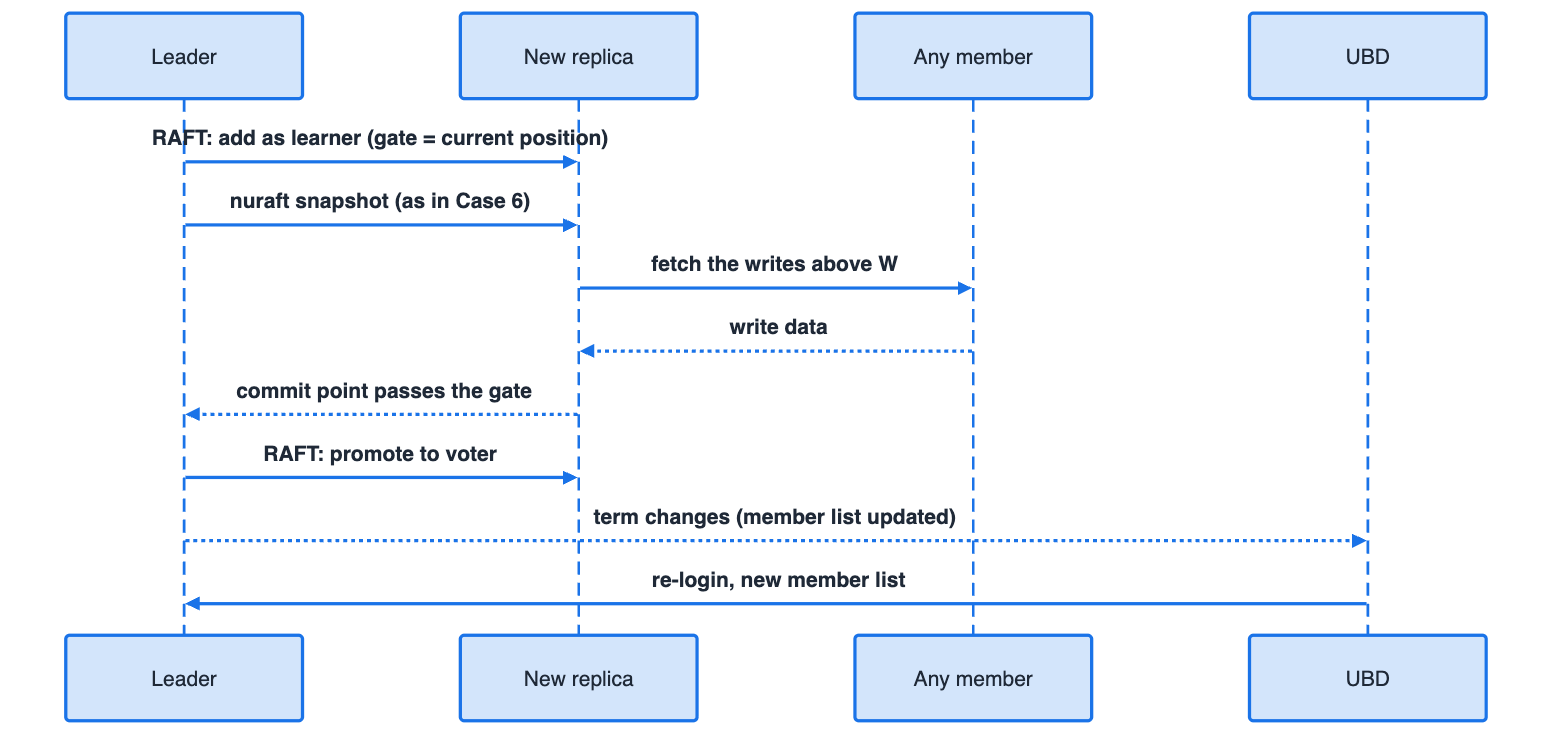
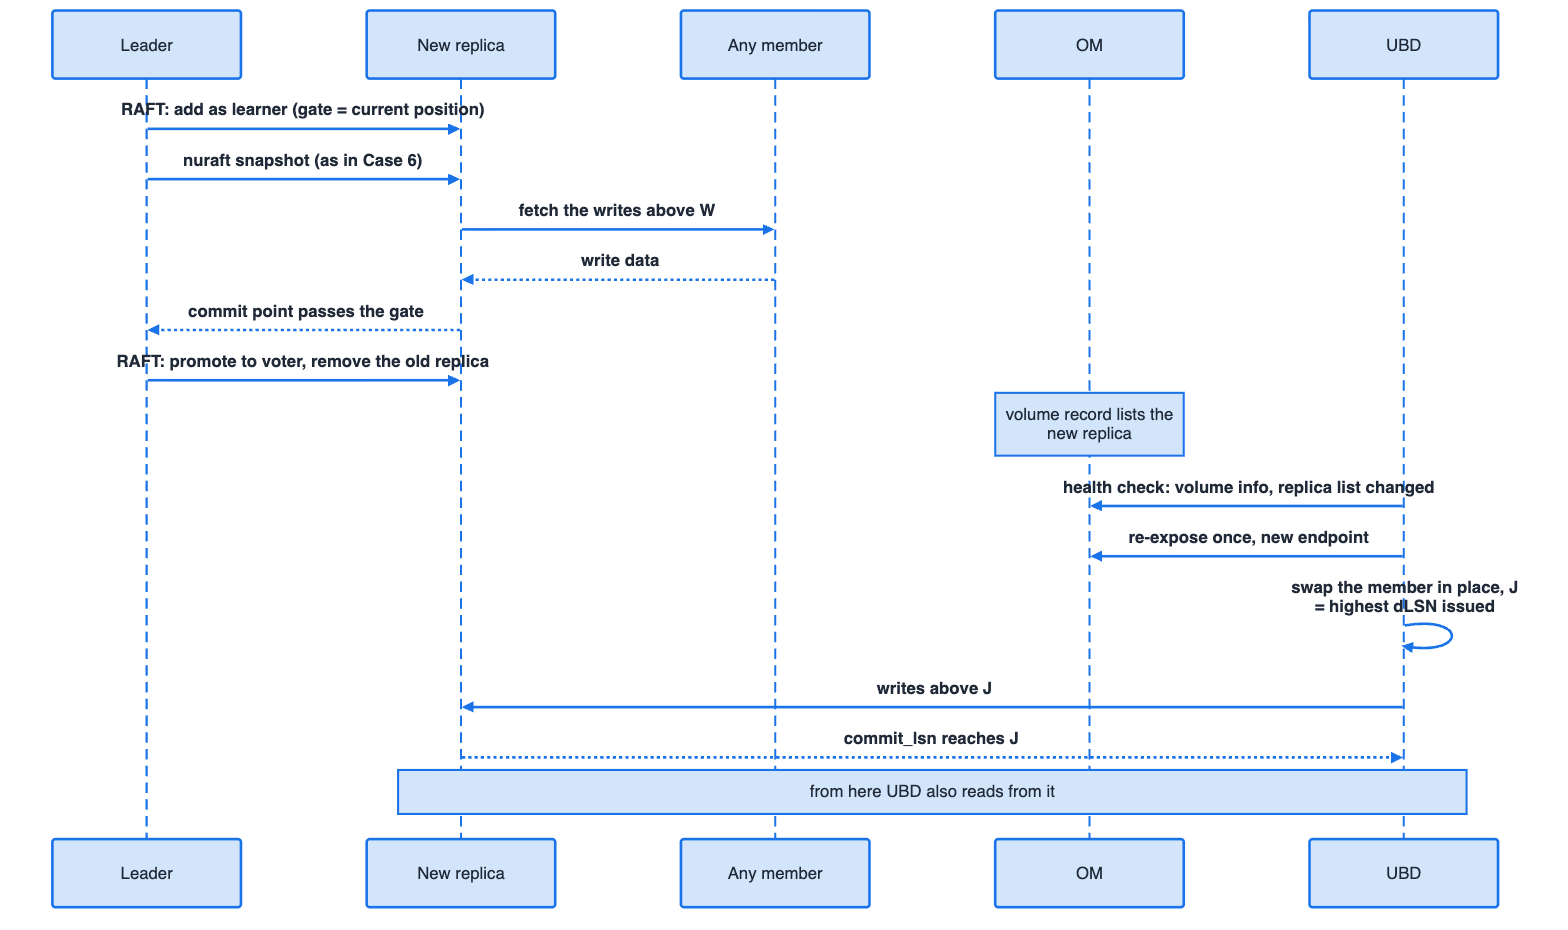
docs/craft: Case 7 -- UBD swaps the new member in place, no re-login
UBD no longer re-logs in when a replica moves. Its health check polls OM, sees the partition's replica list change,
re-exposes once for the endpoint and swaps the member in place (craft::replace_member via ublkpp's craft_disk; see
craft_client#7, ublkpp#17, ublk_nublox#163). Writes above the swap point J go to the new replica, reads wait until
its commit_lsn reaches J, and the session and term are unchanged. Figure 7 now shows OM and the swap. The
"UBD never writes to a learner" guarantee is replaced: UBD may already write to the new replica while it is a
learner, which is safe because reads are gated on J and everything at or below J comes by resync.

diff --git a/docs/craft/resync.md b/docs/craft/resync.md
@@ -387,14 +387,21 @@ sequenceDiagram
 ### Case 7: New member joins
 
 A new or replacement replica starts empty. RAFT adds it as a non-voting learner (HomeStore's `replace_member`), and
-nuraft sends it a snapshot as in Case 6. It is promoted once it holds the data.
+nuraft sends it a snapshot as in Case 6. It is promoted once it holds the data. UBD follows the move without
+logging in again: it swaps the member in place while I/O keeps running.
 
 #### Flow
 
 1. The leader adds the replica as a learner and records the volume's current position as its promotion gate.
 2. nuraft sends the snapshot (Case 6); the replica then fetches the writes above `W` from any member.
-3. Once its commit point passes the gate, the leader promotes it to voter. UBD re-logs in and picks up the new
-   member list.
+3. Once its commit point passes the gate, the leader promotes it to voter and removes the replica it replaces. OM's
+   volume record now lists the new replica in that partition.
+4. UBD's health check polls OM's volume info, sees the partition's replica list change, re-exposes once for the new
+   endpoint, and swaps the member in place (`craft::replace_member`, through ublkpp's `craft_disk`). There is no
+   re-login and no I/O pause: the session, its term and every other member stay as they are.
+5. At the swap, UBD takes `J`, the highest dLSN it has issued. Every write above `J` goes to the new replica; writes
+   at or below `J` that were already in flight to the old one finish there. UBD reads from the new replica only once
+   its own `commit_lsn` reaches `J`, so until then reads go to the other members.
 
 ![Figure 7](resync-diagrams/fig7.png)
 
@@ -405,15 +412,21 @@ sequenceDiagram
     participant L as Leader
     participant N as New replica
     participant P as Any member
+    participant O as OM
     participant C as UBD
     L->>N: RAFT: add as learner (gate = current position)
     L->>N: nuraft snapshot (as in Case 6)
     N->>P: fetch the writes above W
     P-->>N: write data
     N-->>L: commit point passes the gate
-    L->>N: RAFT: promote to voter
-    L-->>C: term changes (member list updated)
-    C->>L: re-login, new member list
+    L->>N: RAFT: promote to voter, remove the old replica
+    Note over O: volume record lists the new replica
+    C->>O: health check: volume info, replica list changed
+    C->>O: re-expose once, new endpoint
+    C->>C: swap the member in place, J = highest dLSN issued
+    C->>N: writes above J
+    N-->>C: commit_lsn reaches J
+    Note over C,N: from here UBD also reads from it
 ```
 
 </details>
@@ -423,7 +436,14 @@ sequenceDiagram
 #### Guarantees
 
 - **A replica votes only once it holds the data** up to the gate.
-- **UBD never writes to a learner**, so the new replica pulls everything; it is never pushed.
+- **UBD never reads from the new replica before it holds the data** up to the swap point `J`. Writes above `J` reach
+  it directly; everything at or below `J` it pulls from the other BMs (snapshot plus FetchData). UBD itself copies no
+  data.
+- **No write is lost across the swap.** A write either took its dLSN before `J` was read (it may go to the old
+  replica, and the new one gets it by resync) or after (it goes to the new replica). The client publishes the new
+  member before it reads `J`, so no write falls between the two.
+- **No re-login.** The session and term are unchanged; late replies from the old replica are tagged with the slot's
+  old generation and ignored.
 
 ### Case 8: Snapshot interrupted
 
